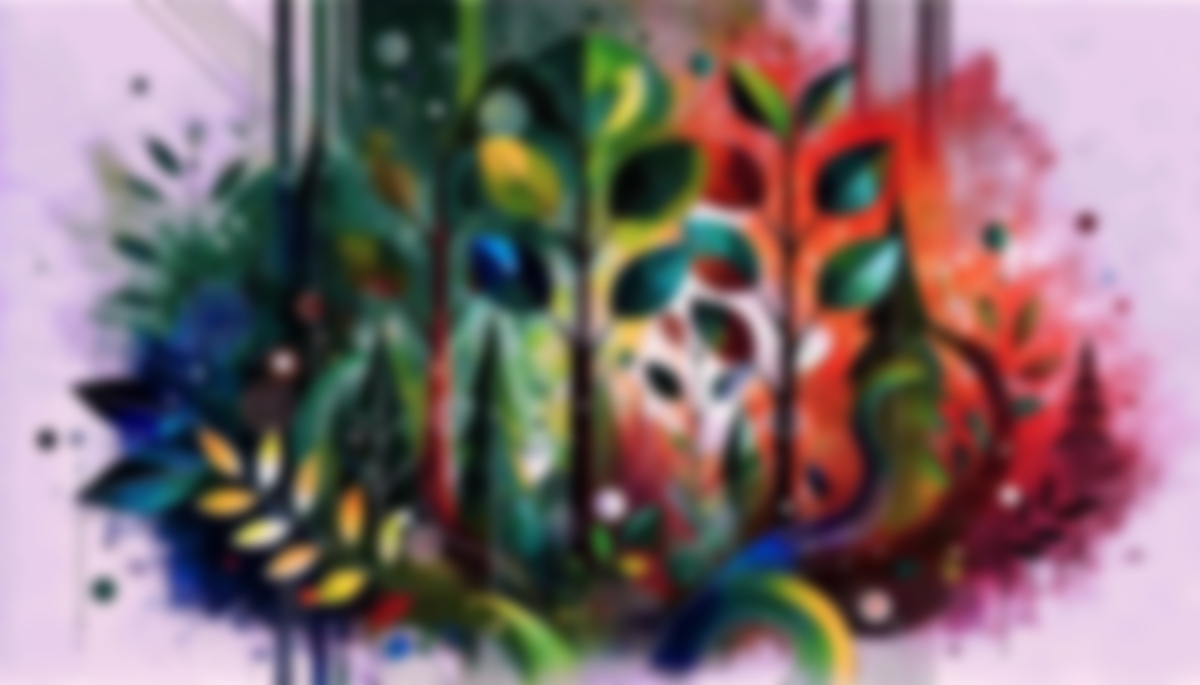
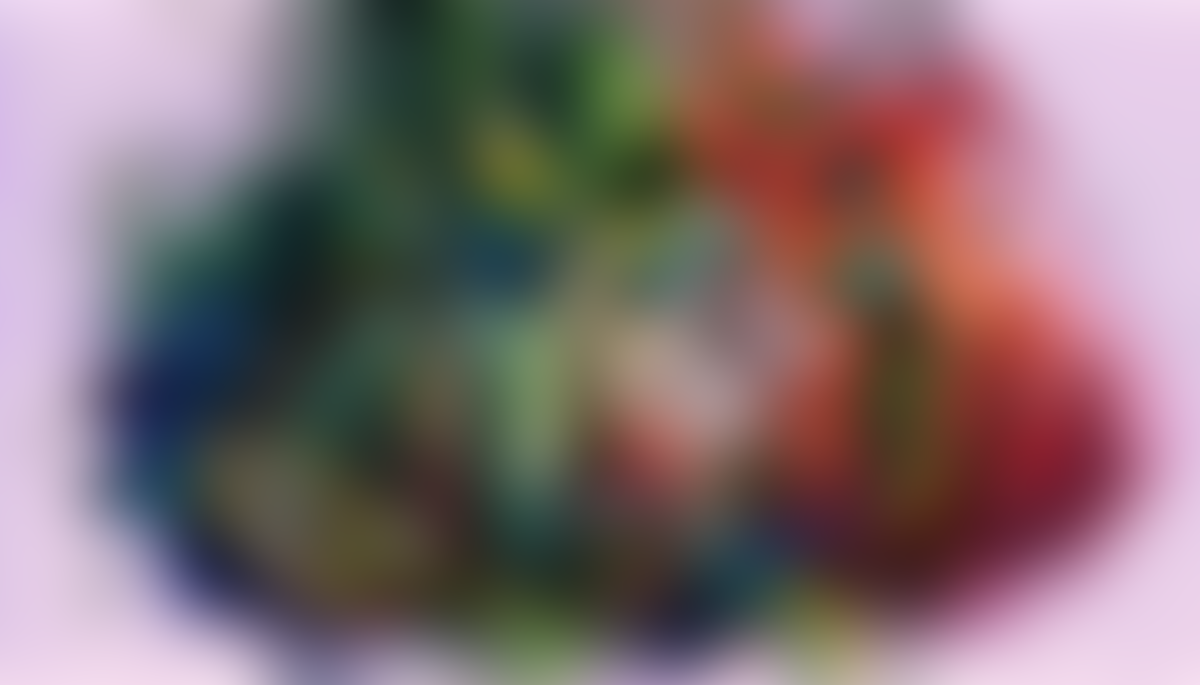
OPTIMISATION

diff --git a/home.css b/home.css
@@ -164,13 +164,15 @@ main {
     max-width: 70%;
     margin: 0 auto;
     border-radius: 100px;
-    backdrop-filter: blur(20rem);
     padding-top: 50px;
-    background-color:   rgba(0, 0, 0, 0.349); 
+    background:url(b3-2.png); 
+    background-position: center;
+    background-size: cover;
     top: -150px;
- 
+    
     
 }
+
 .about::before{
     position: absolute;
     content: "";
@@ -183,6 +185,18 @@ main {
     border-radius: 50%;
     background-color: white;
     display: block;
+   
+}
+
+.about::after {
+    content: "";
+    position: absolute;
+    width: 100%;
+    height: 100%;
+    top: 0;
+    background-color: transparent;
+    backdrop-filter: blur(10px);
+    z-index: -1;
 }
 
 
@@ -368,7 +382,7 @@ main {
     width: 100%;
     height: 100%;
     background-color: rgba(124, 56, 56, 0.295);
-    backdrop-filter: blur(10rem);
+    backdrop-filter: blur(10px);
     top: 0;
     left: 0;
     right: 0;
@@ -715,9 +729,7 @@ text-align: center;
         min-height: 130vh;
     }     
 
-    .projects-content .projects .img::after {
-       display: none;
-    }
+  
 
     
 

diff --git a/webdesign.css b/webdesign.css
@@ -11,7 +11,7 @@ header .first::before{
 
 main {
     padding-top: 150px;
-    background: url(b2.jpg);
+    background: url(b2-1.png);
     background-position: center;
     background-size: cover;
     position: relative;
@@ -24,7 +24,7 @@ main::before{
     height: 100%;
     top: 0;
     background-color: transparent;
-    backdrop-filter: blur(100px);
+    backdrop-filter: blur(10px);
 
 
 }

diff --git a/work.css b/work.css
@@ -24,7 +24,7 @@ main::before{
     height: 100%;
     top: 0;
     background-color: transparent;
-    backdrop-filter: blur(10rem);
+    backdrop-filter: blur(10px);
   
 
 
